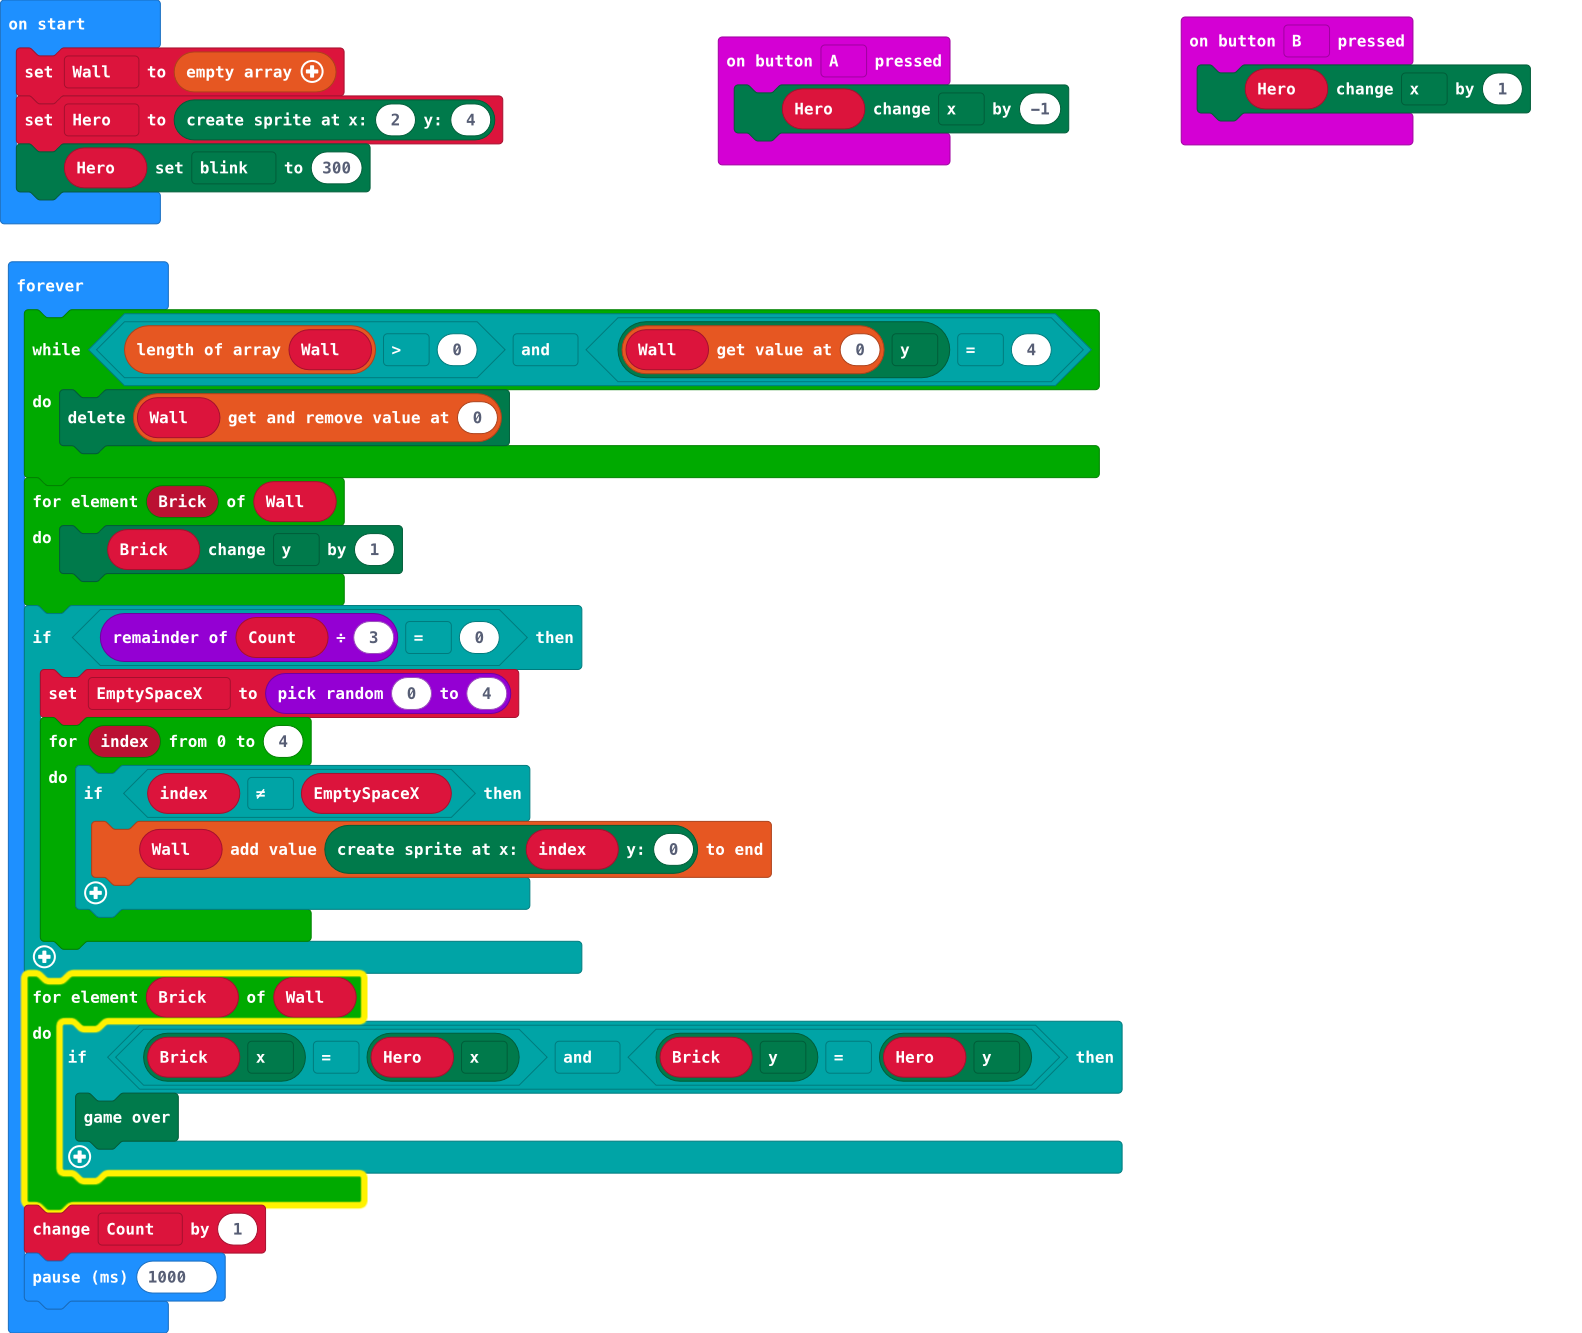
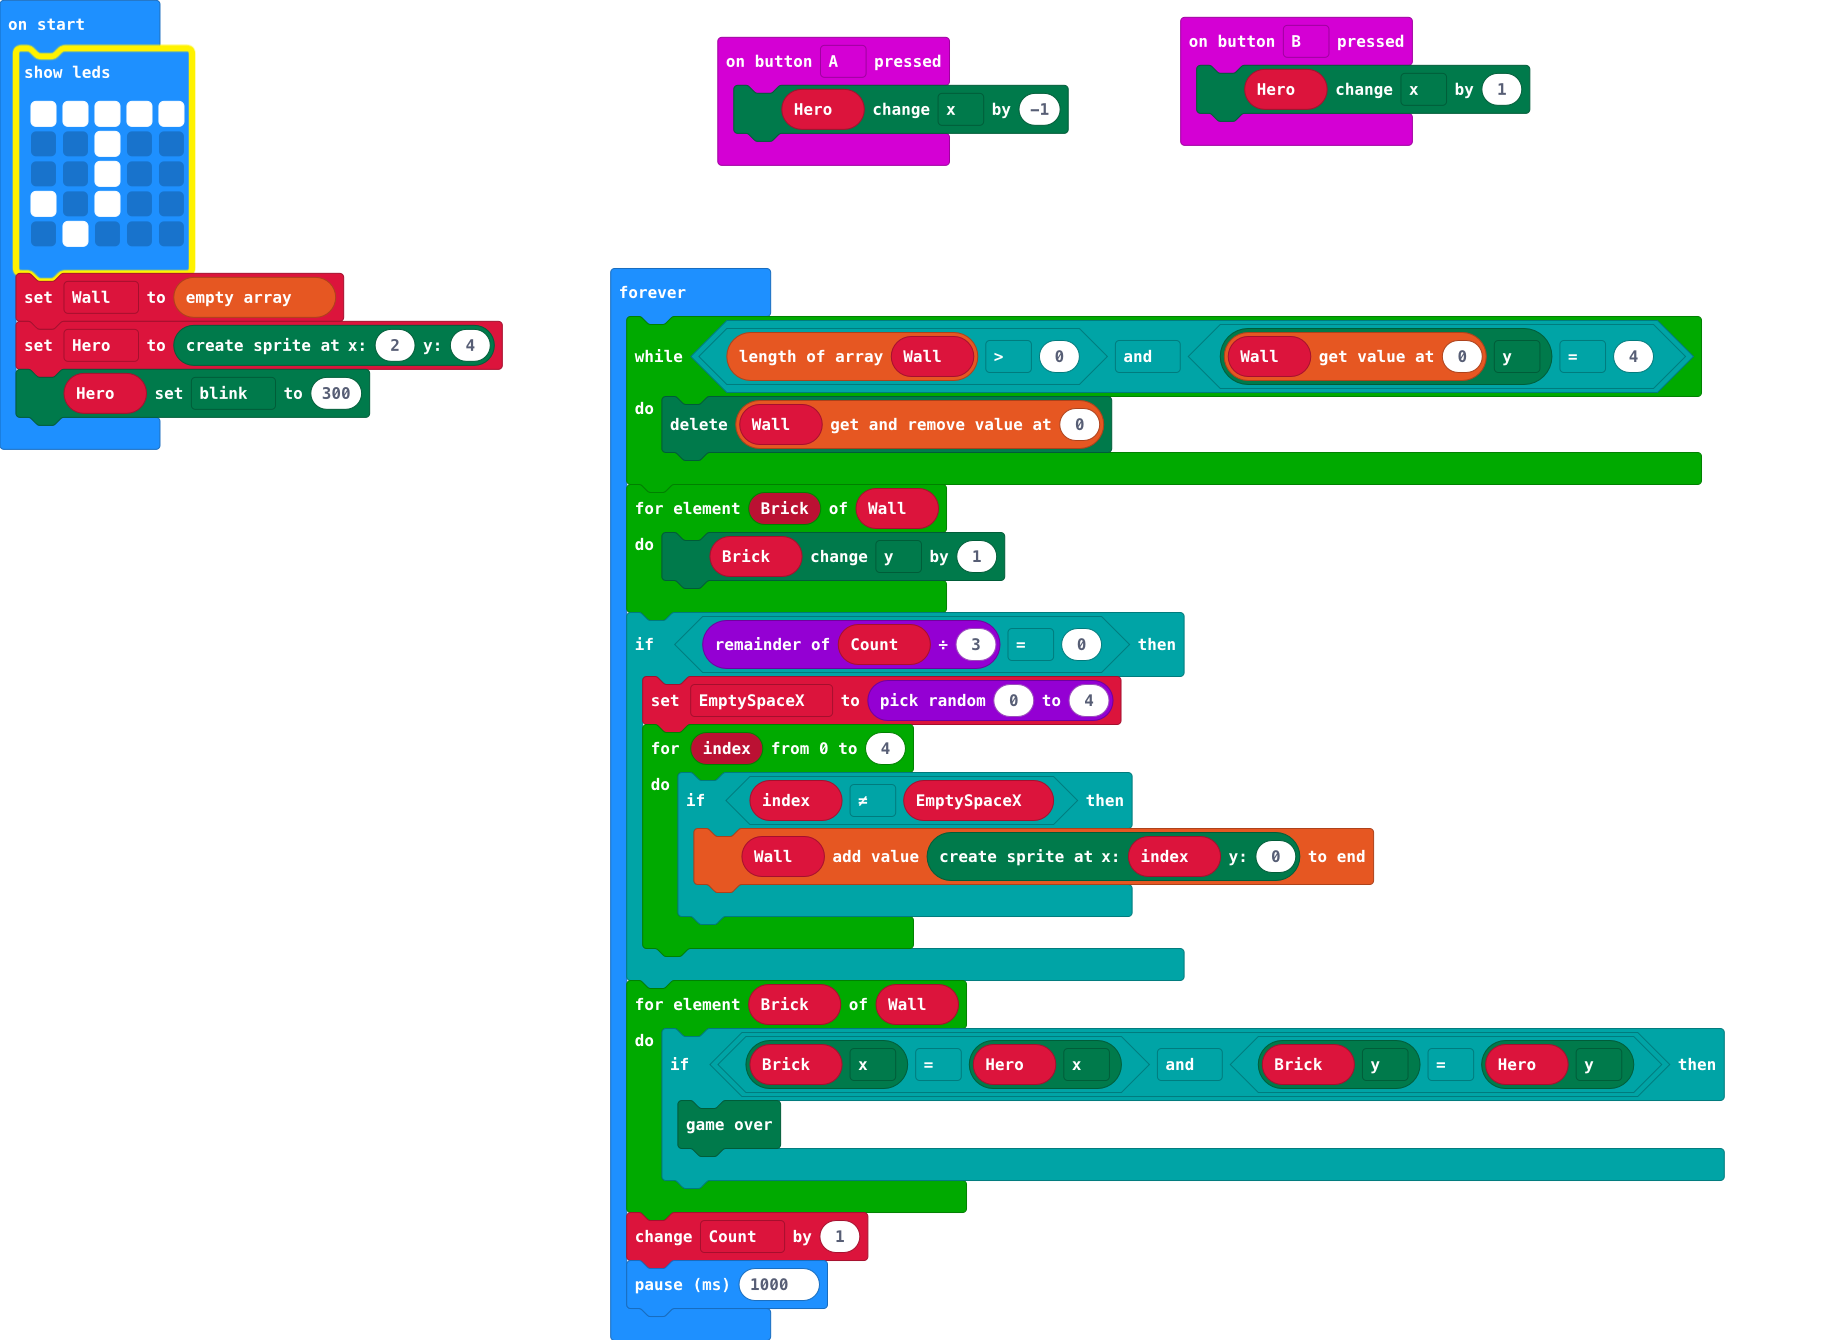
Added my mark

diff --git a/main.ts b/main.ts
@@ -7,6 +7,13 @@ input.onButtonPressed(Button.B, function () {
 let EmptySpaceX = 0
 let Count = 0
 let Hero: game.LedSprite = null
+basic.showLeds(`
+    # # # # #
+    . . # . .
+    . . # . .
+    # . # . .
+    . # . . .
+    `)
 let Wall: game.LedSprite[] = []
 Hero = game.createSprite(2, 4)
 Hero.set(LedSpriteProperty.Blink, 300)
